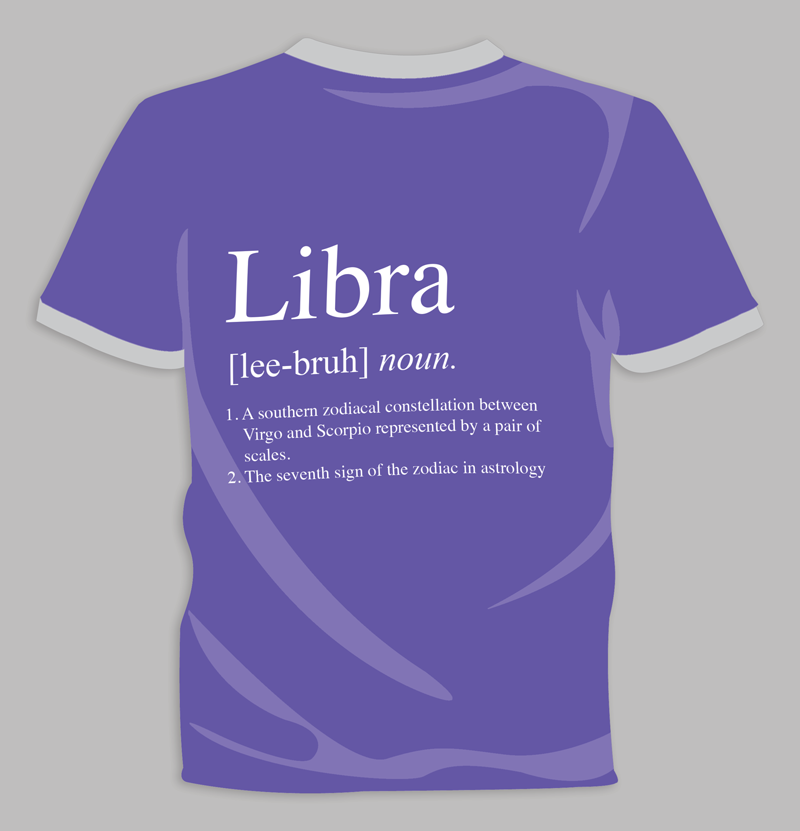
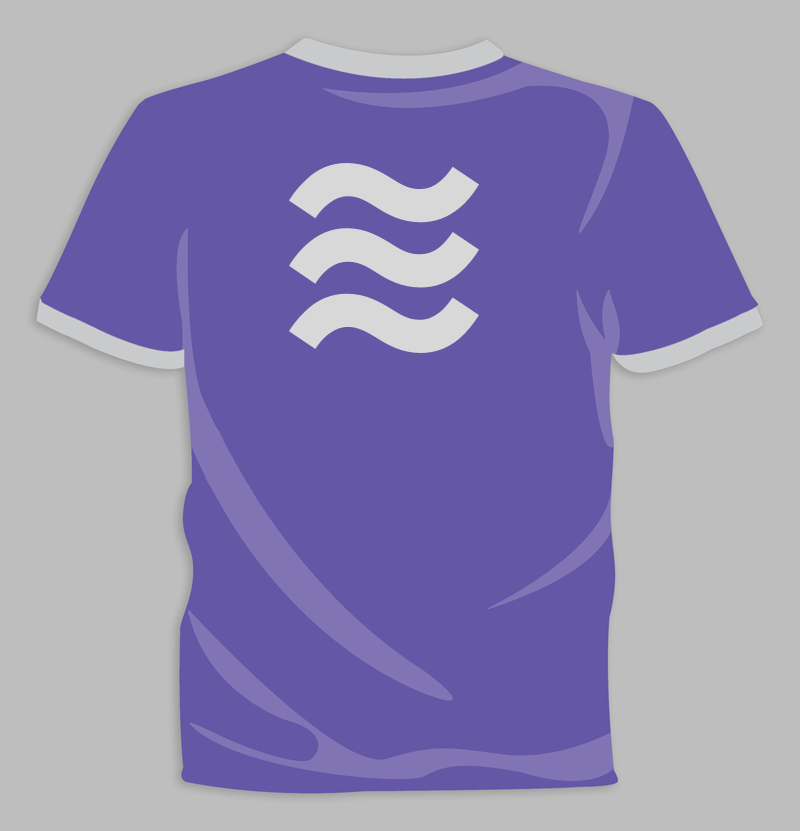
Update graphics

Changed region(s): [[0.2812, 0.1805, 0.5938, 0.4513], [0.2812, 0.4813, 0.6875, 0.6017]]

diff --git a/merchant/backend/src/store/products.py b/merchant/backend/src/store/products.py
@@ -24,8 +24,8 @@ PRODUCTS = {
             gtin="00000001",
             price=34250000,
             currency=FiatCurrency.USD.value,
-            name="Libra T-Shirt",
-            description="The all new Libra T-Shirt available now. Amazing purple / white colors!",
+            name="T-Shirt",
+            description="The all new T-Shirt available now. Amazing purple / white colors!",
             quantity=1000,
             payment_type="direct",
             image_url="/images/t-shirt-purple.png"
@@ -34,8 +34,8 @@ PRODUCTS = {
             gtin="00000002",
             price=15890000,
             currency=FiatCurrency.EUR.value,
-            name="Libra Key Chain",
-            description="The all new Libra Key Chain available now in purple colors!",
+            name="Key Chain",
+            description="The all new Key Chain available now in purple colors!",
             quantity=1000,
             payment_type="direct",
             image_url="/images/key-chain.png"
@@ -44,8 +44,8 @@ PRODUCTS = {
             gtin="00000003",
             price=21010000,
             currency=FiatCurrency.USD.value,
-            name="Libra Hat",
-            description="The all new Libra Hat available now. Amazing purple color!",
+            name="Hat",
+            description="The all new Hat available now. Amazing purple color!",
             quantity=1000,
             payment_type="direct",
             image_url="/images/hat.png"
